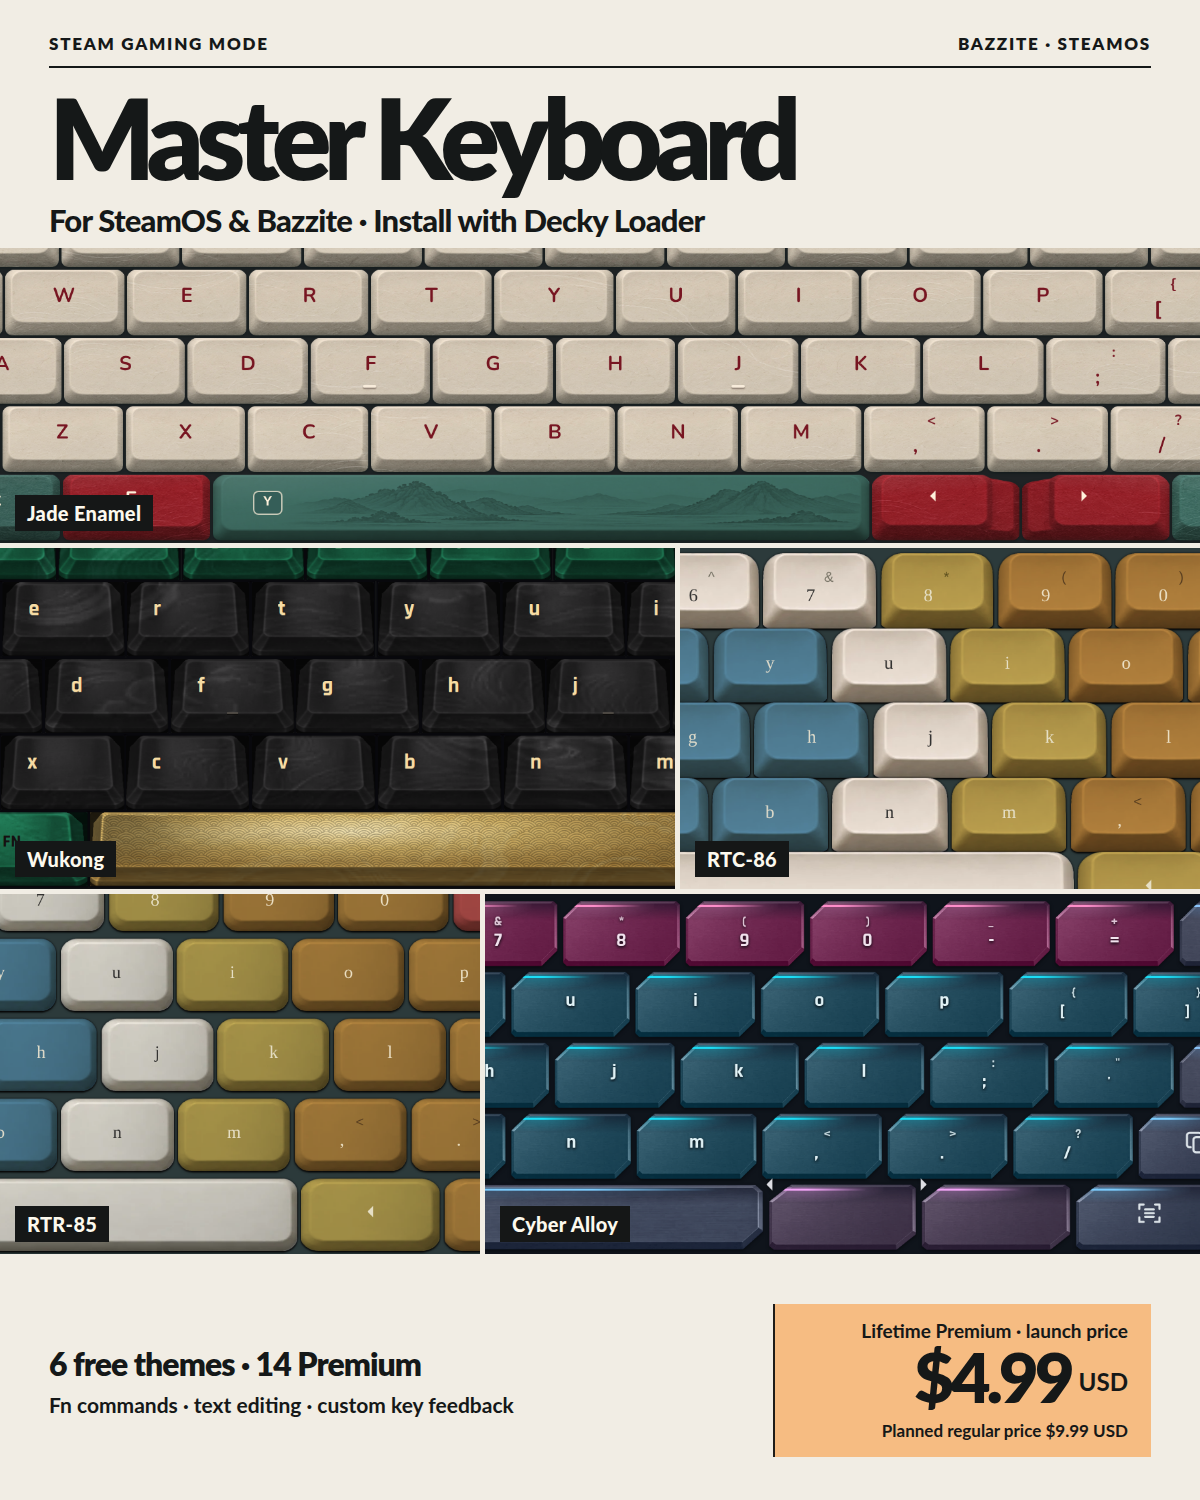
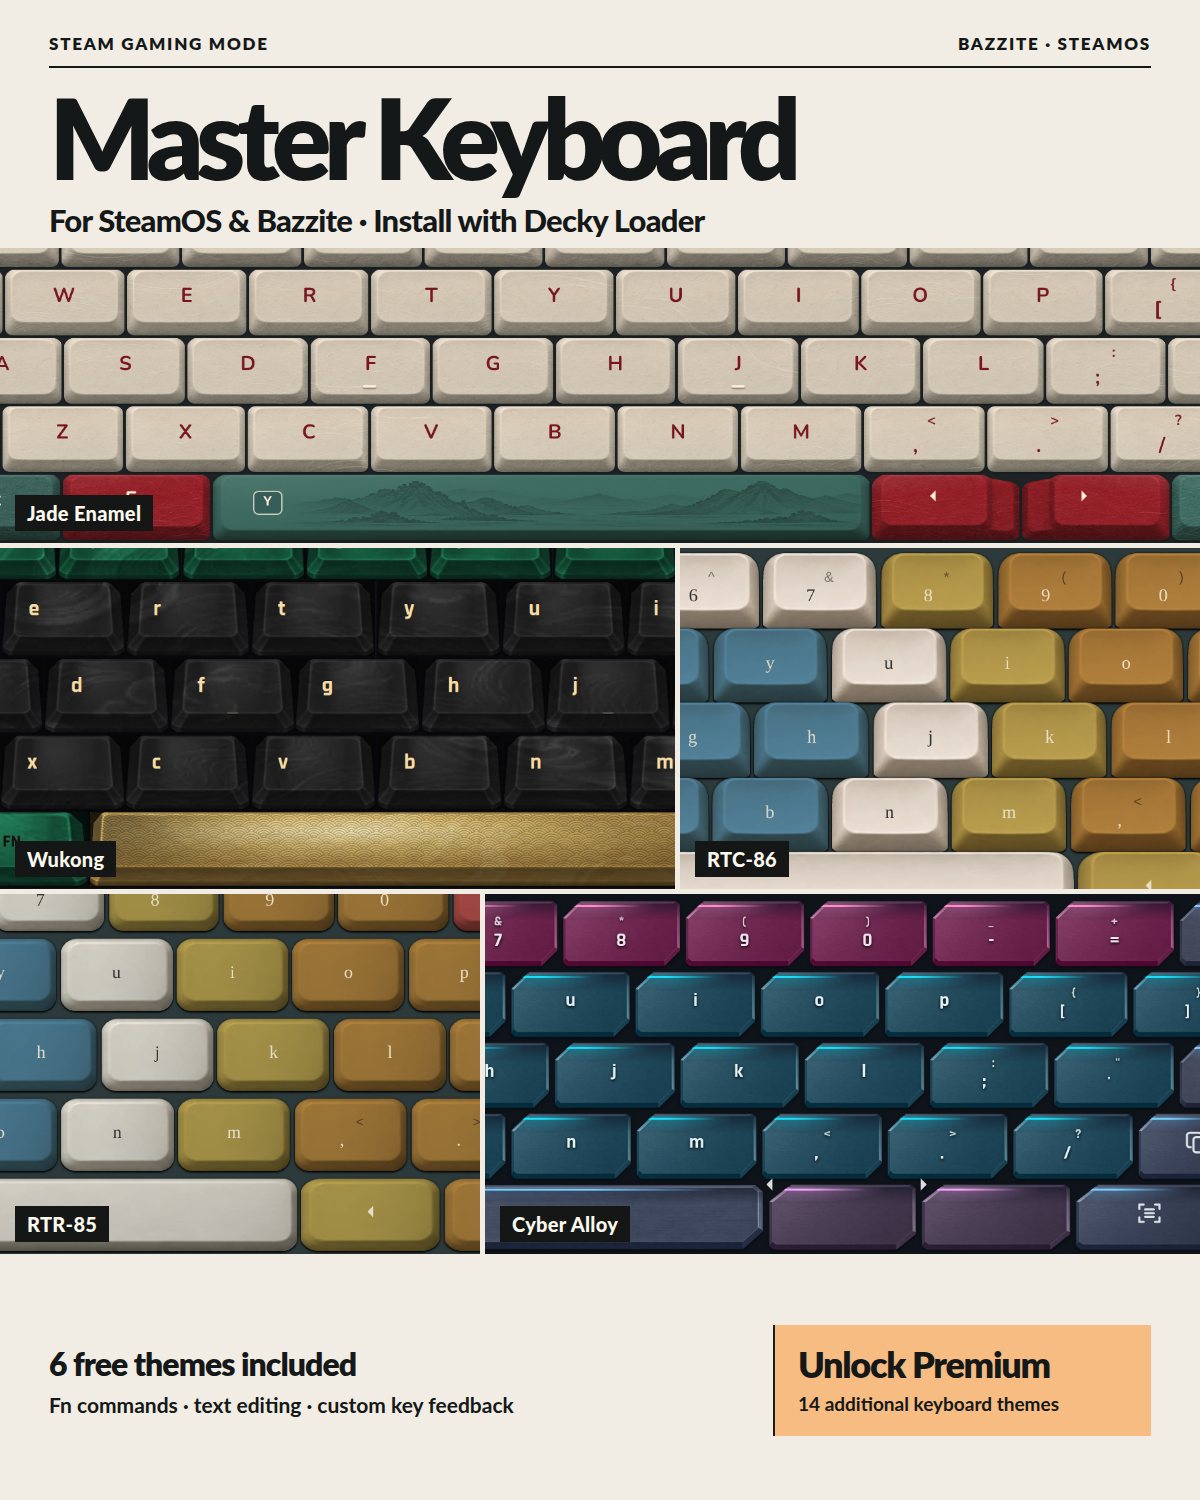
Keep Premium pricing in the plugin

Changed region(s): [[0.6475, 0.8587, 0.9558, 0.9813], [0.185, 0.8893, 0.37, 0.92]]

diff --git a/README.md b/README.md
@@ -36,7 +36,7 @@ If you use another Steam keyboard theme in CSS Loader, disable it before enablin
 
 ## Free and Premium themes
 
-The first Free release includes **six playable themes** and **14 locked theme previews**. PayPal checkout and purchase recovery will open with the Premium launch. The planned one-time launch price is **$4.99 USD**, with an intended regular price of **$9.99 USD** after launch.
+The Free release includes **six playable themes** and **14 Premium previews**. When Premium launches, open **Master Keyboard** in Decky to view the one-time unlock price and pay with PayPal. **Restore purchase** lets you recover access through your receipt email.
 
 ## Feedback
 
